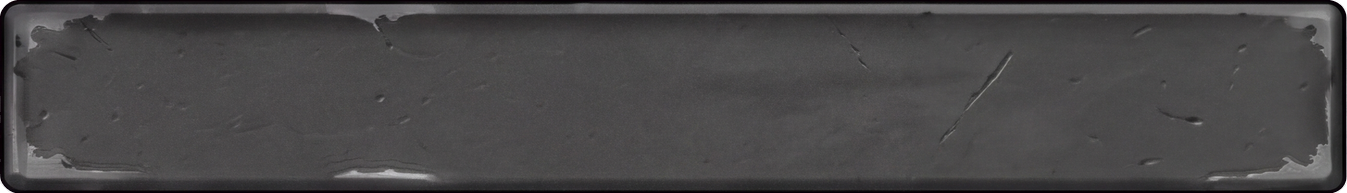
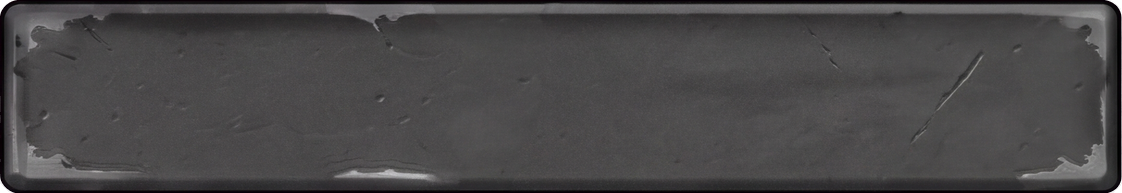
HUD art: long parts painted at their true aspect, and their middles repeat instead of stretching
The timeline housing was painted stretched to 21:9 and squashed back about 3.9 times, so its wear read
far wider than tall. It is now painted as three 21:9 windows of its whitebox on one sheet (left end,
middle, right end) and assembled on the whitebox's edges, the gap covered by the middle window and its
mirror image. Its wells measure within half a unit of the whitebox.

Parts drawn wider than they were painted (the housing, Take over, the lanes plate and the lanes) now
carry `xtile`: their x stretch band is one period of a seamless tile (tools/hudart/seamband.py) and
the mockup repeats it a whole number of times instead of stretching it. hud-layout.md states the rule
for the DLL; pixel-forge.md gives the method.

Claude-Session: https://claude.ai/code/session_01CWvRSTvNwoKGEdcHRjR3ry

diff --git a/tools/hudart/mockup/hud.js b/tools/hudart/mockup/hud.js
@@ -86,7 +86,7 @@ const HUD = (() => {
   function vars(part) {
     const k = K[part];
     let v = `--bi:url('${url(part)}')`;
-    if (k.kind === 'nine') { const [t, r, b, l] = k.slice; v += `;--bsl:${t} ${r} ${b} ${l};--bw:${[t, r, b, l].map(x => U(x / k.scale)).join(' ')}`; }
+    if (k.kind === 'nine') { const [t, r, b, l] = k.slice; v += `;--bsl:${t} ${r} ${b} ${l};--bw:${[t, r, b, l].map(x => U(x / k.scale)).join(' ')}`; v += `;--bir:${k.xtile ? 'round' : 'stretch'} stretch`; }
     return v;
   }
   // a held button shows its pressed part, and its face sinks; released, it shows its own part again
@@ -441,7 +441,14 @@ const HUD = (() => {
     const g = c.getContext('2d'); g.imageSmoothingQuality = 'high';
     for (let i = 0; i + 1 < bx.length; i++) for (let j = 0; j + 1 < by.length; j++) {
       const dx0 = Math.round(fx(bx[i]) * px), dx1 = Math.round(fx(bx[i + 1]) * px), dy0 = Math.round(fy(by[j]) * px), dy1 = Math.round(fy(by[j + 1]) * px);
-      if (dx1 > dx0 && dy1 > dy0) g.drawImage(img, bx[i] * sx, by[j] * sy, (bx[i + 1] - bx[i]) * sx, (by[j + 1] - by[j]) * sy, dx0, dy0, dx1 - dx0, dy1 - dy0);
+      if (!(dx1 > dx0 && dy1 > dy0)) continue;
+      // an xtile part's x band (the odd cells) is one period of a seamless tile: repeated a whole number of times
+      // at its painted length in units, each copy taking an equal share of the drawn band
+      const n = k.xtile && i % 2 ? Math.max(1, Math.round((dx1 - dx0) / ((bx[i + 1] - bx[i]) * px))) : 1;
+      for (let c = 0; c < n; c++) {
+        const cx0 = dx0 + Math.round((dx1 - dx0) * c / n), cx1 = dx0 + Math.round((dx1 - dx0) * (c + 1) / n);
+        g.drawImage(img, bx[i] * sx, by[j] * sy, (bx[i + 1] - bx[i]) * sx, (by[j + 1] - by[j]) * sy, cx0, dy0, cx1 - cx0, dy1 - dy0);
+      }
     }
     return cache[key] = c.toDataURL();
   }

diff --git a/tools/hudart/mockup/hud.css b/tools/hudart/mockup/hud.css
@@ -4,9 +4,10 @@
 /* a part: its art is painted behind its children */
 .hud .art { position: absolute; isolation: isolate; }
 .hud .art::before { content: ''; position: absolute; inset: 0; z-index: -1; pointer-events: none; }
-/* 9-slice: the slice's edges keep their painted size in units, the middle stretches */
+/* 9-slice: the slice's edges keep their painted size in units, the middle stretches; an xtile part's middle is
+   one period of a seamless tile and repeats along x a whole number of times instead */
 .hud .art.nine::before { border-style: solid; border-color: transparent; border-width: var(--bw);
-  border-image: var(--bi) var(--bsl) fill / var(--bw) stretch; }
+  border-image: var(--bi) var(--bsl) fill / var(--bw) var(--bir); }
 .hud .art.whole::before { background: var(--bi) center / 100% 100% no-repeat; }
 .hud .art.icon::before { background: var(--bi) center / contain no-repeat; }
 /* grid-sliced parts and tiled fills are composed into one image at the drawn size */

diff --git a/tools/hudart/seamband.py b/tools/hudart/seamband.py
@@ -1,0 +1,95 @@
+"""Make a cut part's middle repeat along x instead of stretching, so a part drawn wider than it was painted
+keeps the painting's proportions.
+usage: seamband.py <kit dir> <part> [<part> ...]
+Reads <kit dir>/<part>.png as cut.py or gridslice.py wrote it, rewrites it and marks its kit.json entry `xtile`.
+
+A stretched middle widens every scratch and chip with it: a 9-slice painted 140 units long and drawn 280 shows
+its wear twice as wide as tall. Here the middle becomes ONE PERIOD of a seamless tile, which the renderer
+repeats a whole number of times (hud-layout.md, *Parts*). The tile is learned from the middle itself by
+tile.py's quilting, so it wraps continuously by construction. Its two joins to the fixed ends are minimum-error
+seams through an overlap of `ov` pixels taken from the middle's own paint, so the ends keep their bevels:
+  - a 9-slice's middle [l, W - r) gives up `ov` pixels at each side to the joins, and is replaced by the tile;
+    the slice grows by `ov` on each side and the PNG becomes l + ov + L + ov + r pixels wide;
+  - a grid part keeps its length, so its wells stay where they were measured: one period of the tile is
+    joined into its x stretch band, `ov` pixels in from the band's start, and `xs` becomes that period; the
+    rest of the painting is left as painted.
+fill() is the operation both use, and a job script may call it to join separately painted pieces."""
+import json, os, sys
+import numpy as np
+from PIL import Image
+from scipy import ndimage
+sys.path.insert(0, os.path.dirname(os.path.abspath(__file__)))
+from tile import tile
+
+
+def seam_join(A, B):
+    """A and B: the same h x o columns from the left piece and the right piece. Returns them joined along the
+    cheapest top-to-bottom path of their difference, feathered over 3 pixels: A left of it, B right of it."""
+    h, o = A.shape[:2]
+    rgbA, rgbB = A[..., :3] * A[..., 3:], B[..., :3] * B[..., 3:]
+    E = ((rgbA - rgbB) ** 2).sum(2)
+    lo, hi = min(3, o // 4), max(min(3, o // 4) + 1, o - 4)        # keep the seam off the overlap's ends
+    M = np.full_like(E, np.inf); M[0, lo:hi] = E[0, lo:hi]
+    for y in range(1, h):
+        prev = np.minimum(np.minimum(M[y - 1], np.roll(M[y - 1], 1)), np.roll(M[y - 1], -1))
+        M[y, lo:hi] = E[y, lo:hi] + prev[lo:hi]
+    path = np.zeros(h, int); path[-1] = int(np.argmin(M[-1]))
+    for y in range(h - 2, -1, -1):
+        c = path[y + 1]; cand = [x for x in (c - 1, c, c + 1) if lo <= x < hi]
+        path[y] = min(cand, key=lambda x: M[y, x])
+    m = (np.arange(o)[None, :] > path[:, None]).astype(float)       # 1 = take B
+    m = ndimage.uniform_filter1d(m, size=3, axis=1)[..., None]
+    return (1 - m) * A + m * B
+
+
+def fill(img, x0, x1, t, ov):
+    """img (h x W x 4 floats, alpha 0..1) with columns [x0, x1) painted by the seamless tile t cycled from its
+    first column at x0, joined to img at both ends through the overlaps [x0 - ov, x0) and [x1, x1 + ov), which
+    must hold paint that continues across them (a plate, a rail), never a bevel."""
+    L = t.shape[1]
+    F = lambda a, b: t[:, np.arange(a - x0, b - x0) % L]
+    out = img.copy()
+    out[:, x0:x1] = F(x0, x1)
+    out[:, x0 - ov:x0] = seam_join(img[:, x0 - ov:x0], F(x0 - ov, x0))
+    out[:, x1:x1 + ov] = seam_join(F(x1, x1 + ov), img[:, x1:x1 + ov])
+    return out
+
+
+def nine(a, sl):
+    t_, r, b_, l = sl
+    W = a.shape[1]; n = W - r - l
+    ov = max(8, n // 12)
+    t, _ = tile(a[:, l + ov:W - r - ov])
+    L = t.shape[1]
+    body = np.concatenate([a[:, :l + ov], np.zeros_like(t), a[:, W - r - ov:]], 1)
+    return fill(body, l + ov, l + ov + L, t, ov), [t_, r + ov, b_, l + ov], L, ov
+
+
+def grid(a, e):
+    (p, q), = e['xs']                                               # one x stretch band, in design units
+    s = a.shape[1] / e['design'][0]
+    x0, x1 = round(p * s), round(q * s); ov = max(8, (x1 - x0) // 12)
+    t, _ = tile(a[:, x0 + ov:x1 - ov])
+    L = t.shape[1]
+    out = fill(a, x0 + ov, x0 + ov + L, t, ov)
+    return out, [[round((x0 + ov) / s, 2), round((x0 + ov + L) / s, 2)]], L, ov
+
+
+if __name__ == '__main__':
+    kit, parts = sys.argv[1], sys.argv[2:]
+    kp = os.path.join(kit, 'kit.json'); K = json.load(open(kp))
+    for part in parts:
+        a = np.asarray(Image.open(os.path.join(kit, part + '.png')).convert('RGBA')).astype(float)
+        a[..., 3] /= 255
+        e = K[part]
+        if e.get('grid'):
+            out, e['xs'], L, ov = grid(a, e)
+        else:
+            out, e['slice'], L, ov = nine(a, e['slice'])
+        e['xtile'] = True
+        if 'w' in e: e['w'] = out.shape[1]
+        im = np.dstack([out[..., :3], out[..., 3:] * 255]).clip(0, 255).astype(np.uint8)
+        Image.fromarray(im, 'RGBA').save(os.path.join(kit, part + '.png'))
+        print(f"{part}: middle is one period of {L} px ({L / e['scale']:.1f} units), joins over {ov} px; "
+              f"PNG {a.shape[1]} -> {im.shape[1]} px wide")
+    json.dump(K, open(kp, 'w'), indent=1)

diff --git a/tools/hudart/file.py b/tools/hudart/file.py
@@ -10,6 +10,8 @@ Each entry carries what drawing the part needs and nothing about how it was made
   grid   a one-piece part: `design` size in HUD units, stretch bands `xs` / `ys`, measured `wells`, and
          `text`, the wells that are text zones on the plate rather than recesses;
   nine   a 9-slice: `slice` [top, right, bottom, left] in the PNG's pixels;
+  xtile  on a grid or a 9-slice: its x stretch band (a grid's one `xs` band, a 9-slice's middle) is one
+         period of a seamless tile (seamband.py) and repeats along x instead of stretching;
   tile   a strip that repeats along x;
   whole  drawn stretched to its box;
   icon   drawn whole inside its box, keeping its aspect, centred.
@@ -27,11 +29,12 @@ def entry(e, name):
     if e.get('grid'):
         d = {'kind': 'grid', 'scale': e['scale'], 'design': e['design'], 'xs': e['xs'], 'ys': e['ys'], 'wells': e['wells']}
         if e.get('text'): d['text'] = e['text']
+        if e.get('xtile'): d['xtile'] = True
         return d
     if e.get('tile'): return {'kind': 'tile', 'scale': e['scale']}
     if e.get('fixed'): return {'kind': 'icon' if name.startswith('i_') else 'whole', 'scale': e['scale']}
     if e.get('core'): sys.exit(f'{name}: a core-only fill; nothing in the chosen HUD draws one, so file.py has no kind for it')
-    return {'kind': 'nine', 'scale': e['scale'], 'slice': e['slice']}
+    return {'kind': 'nine', 'scale': e['scale'], 'slice': e['slice'], **({'xtile': True} if e.get('xtile') else {})}
 
 
 def main(a):

diff --git a/pixel-forge.md b/pixel-forge.md
@@ -28,11 +28,18 @@ render**: it holds the style guide, the method, the tools and what each one meas
    first. The model is **Nano Banana Pro**: it keeps a layout's recess widths (Nano Banana 2 and 2.1
    paint them all equal), at the cost of 21:9 as its widest aspect. Test at `--size 1K`; render the
    kit at 4K.
+   **A part longer than 21:9 is never stretched to fit**: squashing the painting back leaves its wear
+   several times wider than tall. Paint it as windows of its whitebox, each cut at exactly 21:9 and
+   stacked on one sheet (its left end, a stretch of its middle, its right end), with the open sides
+   running off the sheet's edge; then assemble the windows on the whitebox's edges and cover the gap
+   with the middle window and its mirror image, joined by `seamband.py`'s seams
+   (`.data/hud-art/work/m3kit/compose_housing.py` does this for the timeline housing).
 4. **Before cutting**: key out a sheet's labels (everything outside its cells: `.data/hud-art/work/m3kit/unlabel.py`), and scale each painting
    to 10 px per HUD unit, or the one-piece parts outgrow the 8 MB commit limit. A flat recess painted
    with uneven tone is levelled by column (`.data/hud-art/work/m3kit/level.py`).
 5. **Cut and file** with the repository's tools: `gridslice.py` for one-piece parts,
-   `PRESSED_DARK=1.5 cut.py` for sheets, `iconcut.py` for icons, then `file.py <kit dir> <parts>`.
+   `PRESSED_DARK=1.5 cut.py` for sheets, `iconcut.py` for icons, then, for every part drawn wider than it was painted, `seamband.py <kit dir> <parts>`
+   so its middle repeats instead of stretching, then `file.py <kit dir> <parts>`.
    Check `tools/hudart/laycheck.py` still ends "laycheck: the two agree" and capture the mockup.
 
 ## Prompts

diff --git a/research/notes/hud-layout.md b/research/notes/hud-layout.md
@@ -181,6 +181,13 @@ HUD unit. The kinds:
 | `whole` | Stretched to its box | |
 | `icon` | Whole inside its box, keeping its aspect, centred | |
 
+A `grid` or `nine` part may carry **`xtile`**: its x stretch band (a grid's one `xs` band, a 9-slice's
+middle column) is one period of a seamless tile, painted to join its fixed neighbours, and it **repeats**
+along x instead of stretching: drawn n = max(1, round(drawn length / painted length)) times, each copy
+taking an equal share of the drawn band (CSS `border-image-repeat: round stretch` for a 9-slice). Along y it
+still stretches. A part drawn much wider than it was painted keeps its wear in proportion this way;
+`tools/hudart/seamband.py` makes the band and sets the flag.
+
 ## The rules
 
 ### Frames and the placement rule
@@ -206,7 +213,8 @@ A **placement** names a box in its frame:
 ### Parts
 
 - **Grid-sliced parts** are composed into one image per drawn size, cell by cell. The cells share
-  rounded pixel edges, so no seam can show.
+  rounded pixel edges, so no seam can show. An `xtile` part's x band cells are drawn as n copies of the band's
+  source cell, their edges rounded the same way.
 - **A tiled fill** is scaled to its drawn height inside a strip of three copies, so its edges
   resample against their neighbours. It is then copied at whole-pixel steps.
 
